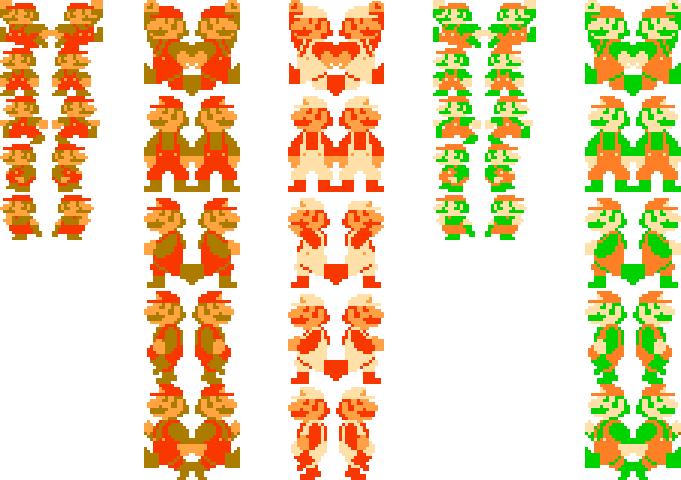
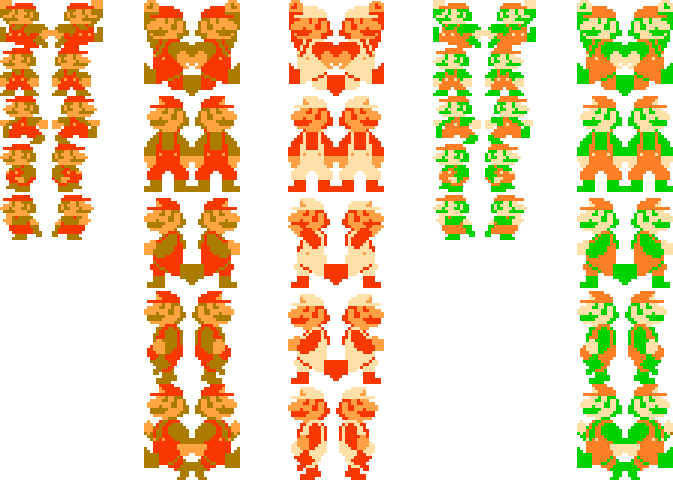
Sistemazione mario stella

diff --git a/src/control/MapManager.java b/src/control/MapManager.java
@@ -55,11 +55,13 @@ public class MapManager {
      * @param g2D The Graphics engine to draw the map.
      */
     public void drawMap(Graphics2D g2D) {
-    	for(Enemy enemy : map.getEnemies()) {
-    		if(enemy.getX() < camera.getX() + GameEngine.WIDTH && enemy.getVelX() == 0)
-    			enemy.setVelX(-3);
-    	}
-        if (map != null) map.drawMap(g2D);
+        if (map != null) {
+            for(Enemy enemy : map.getEnemies()) {
+                if(enemy.getX() < camera.getX() + GameEngine.WIDTH && enemy.getVelX() == 0)
+                    enemy.setVelX(-3);
+            }
+            map.drawMap(g2D);
+        }
     }
 
     /**

diff --git a/src/view/Animation.java b/src/view/Animation.java
@@ -56,9 +56,12 @@ public class Animation {
      * @param frames The frames of the animation sequence.
      */
     private void nextFrame(BufferedImage[] frames, boolean isStar) {
-        if (index + 2 >= frames.length) index = 0;
-
-        currentFrame = frames[index + 2];
+        if (index + 2 >= 5 || index + 7 >=10) index = 0;
+        
+        if(isStar)
+        	currentFrame = frames[index + 7];
+        else
+        	currentFrame = frames[index + 2];
         index++;
     }
 

diff --git a/src/view/ImageLoader.java b/src/view/ImageLoader.java
@@ -51,7 +51,7 @@ public class ImageLoader {
         	width = 48;
         	height = 96;
         }
-
+        
         for (int i = 0; i < 5; i++)
             leftFrames[i] = marioForms.getSubimage((col - 1) * 48, i * height, width, height);
         if(marioForm == 3 || marioForm == 4) {
